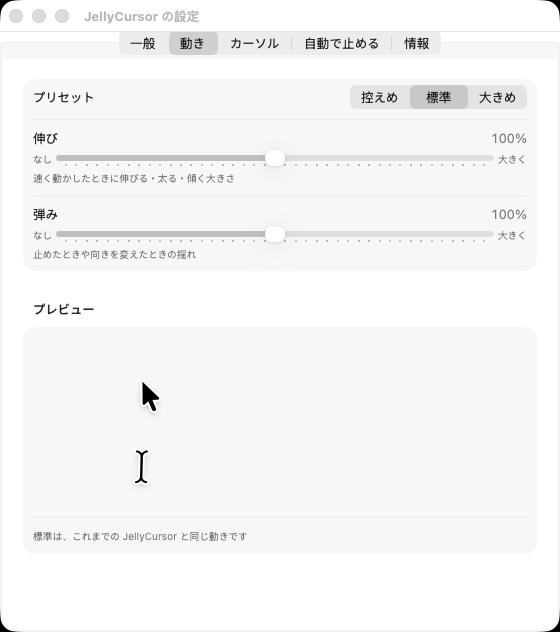
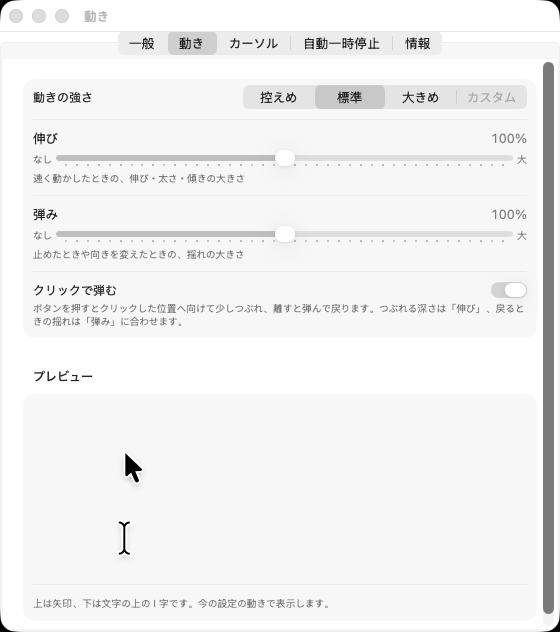
文書を今の動きと言葉にそろえる: README・画像・動きの GIF・古いコメント (#15)
* refactor: split into a Swift package with a platform-free core

Split the app into three modules without changing how the cursor moves:
- JellyCursorCore: the motion math (arrow, I-beam, hand), typing and
  other-app-hide watchers, cursor shape matching, pointer color parsing
  and window geometry. No AppKit, so it also builds and tests on Linux.
- JellyCursorKit: windows, the real cursor, the menu and the app delegate.
- JellyCursor: launch only.

Figures now take MotionParameters. The standard parameters are exactly
the current Tuning values, and a golden test replays a fixed mouse path
and compares every 4th frame with values recorded from main (efbc96a).

Build with `make app`, test with `make test` (Swift 6 language mode).
CI builds the core on Linux and the whole app on macOS.

Claude-Session: https://claude.ai/code/session_019ThAoARLg3Lo86tXZ4sGVb

* fixup! refactor: split into a Swift package with a platform-free core

* feat: add settings, a richer menu, a global shortcut and automatic pauses

Menu bar (NSStatusItem, rebuilt each time it opens):
- Enabled toggle (shows the shortcut), the reason when paused,
  "disable in <front app>", motion presets, restore the real cursor,
  Settings… (⌘,) and warning lines. The icon follows the state:
  running, off, paused (dimmed) or cannot hide the real cursor.

Settings window (SwiftUI inside an NSWindow; the app switches to a
regular app while it is open so it comes to the front on macOS 26):
[…]

diff --git a/docs/motion-gif/main.swift b/docs/motion-gif/main.swift
@@ -33,7 +33,13 @@ func run(_ figure: CursorFigure, start: CGPoint, segments: [Segment]) -> (frames
 func hold(_ p: CGPoint, _ seconds: Double) -> Segment { Segment(duration: seconds) { _ in p } }
 func press(_ p: CGPoint, _ seconds: Double) -> Segment { Segment(duration: seconds, pressed: true) { _ in p } }
 
+// 左右に振る（左端から出て、往復して左端に戻る）
+func shake(from p: CGPoint, width: Double, cycles: Double, seconds: Double) -> Segment {
+    Segment(duration: seconds) { u in CGPoint(x: p.x + width * (1 - cos(2 * .pi * cycles * u)) / 2, y: p.y) }
+}
+
 // 矢印: 右上へ弧を描いて速く動かし、止める（揺れて戻る）→ クリック → 左下へ戻して止める → クリック
+// → 左右に振る（端で縮んで向きを変え、真ん中で伸びる）→ 止める
 let a0 = CGPoint(x: 70, y: 70), a1 = CGPoint(x: 290, y: 190)
 let arrowSegments = [
     hold(a0, 0.5),
@@ -41,8 +47,9 @@ let arrowSegments = [
     hold(a1, 0.55), press(a1, 0.15), hold(a1, 0.4),
     Segment(duration: 0.55) { u in let e = smooth(u); return CGPoint(x: a1.x + (a0.x - a1.x) * e, y: a1.y + (a0.y - a1.y) * e - 45 * sin(.pi * u)) },
     hold(a0, 0.6), press(a0, 0.15), hold(a0, 0.55),
+    shake(from: a0, width: 220, cycles: 2, seconds: 0.9), hold(a0, 0.7),
 ]
-// I 字: 横に速く（太る）→ 止める（弾む）→ 斜めに（傾く）→ 縦に（伸びる）→ 止める → クリック
+// I 字: 横に速く（太る）→ 止める（弾む）→ 斜めに（傾く）→ 縦に（伸びる）→ 止める → クリック → 左右に振る → 止める
 let b0 = CGPoint(x: 70, y: 130), b1 = CGPoint(x: 290, y: 130), b2 = CGPoint(x: 180, y: 50), b3 = CGPoint(x: 180, y: 200)
 let beamSegments = [
     hold(b0, 0.5),
@@ -53,6 +60,7 @@ let beamSegments = [
     Segment(duration: 0.35) { u in let e = smooth(u); return CGPoint(x: b2.x, y: b2.y + (b3.y - b2.y) * e) },
     Segment(duration: 0.55) { u in let e = smooth(u); return CGPoint(x: b3.x + (b0.x - b3.x) * e, y: b3.y + (b0.y - b3.y) * e) },
     hold(b0, 0.15), press(b0, 0.15), hold(b0, 0.4),
+    shake(from: b0, width: 220, cycles: 2, seconds: 0.9), hold(b0, 0.7),
 ]
 let scale: CGFloat = 2
 let arrow = run(Jelly(scale: scale), start: a0, segments: arrowSegments)

diff --git a/Sources/JellyCursorKit/SettingsView.swift b/Sources/JellyCursorKit/SettingsView.swift
@@ -138,7 +138,7 @@ private struct GeneralPane: View {
     }
 }
 
-// 動き: プリセット・強さ・プレビュー
+// 動き: 動きの強さ（プリセット）・伸びと弾み・プレビュー
 private struct MotionPane: View {
     @Bindable var settings: AppSettings
     // 選べないカスタムが押されたときに、切り替えを作り直して今の選択に戻す
@@ -260,7 +260,7 @@ private struct CursorKindToggle: View {
     }
 }
 
-// 自動で止める: 視差効果・低電力・全画面・除外するアプリ
+// 自動一時停止: 視差効果・低電力・フルスクリーン・除外するアプリ
 private struct AutoPausePane: View {
     @Bindable var settings: AppSettings
     // 起動中のアプリ。アプリが起動・終了したら読み直す

diff --git a/Sources/JellyCursorCore/Jelly.swift b/Sources/JellyCursorCore/Jelly.swift
@@ -218,7 +218,7 @@ package final class Jelly: CursorFigure {
                     p.aimed = false
                 }
                 // 回す先が決まったフレームでは、決まったあとの時間だけ回す。まるごと回すと、画面の書き換えが遅いほど
-                // 早く回り始め、伸びを残した長い胴体では、書き換えの速さで尾の位置が大きく変わる
+                // 早く回り始め、長い胴体では、書き換えの速さで尾の位置が大きく変わる
                 if !p.aimed {
                     let gained = distance - hypot(end.x - previous.x, end.y - previous.y)
                     if gained > 0 { turning = dt * min(max((distance - Tuning.Fold.minTurnTravel) / gained, 0), 1) }

diff --git a/Sources/JellyCursorKit/SystemMonitor.swift b/Sources/JellyCursorKit/SystemMonitor.swift
@@ -1,8 +1,8 @@
 import AppKit
 import JellyCursorCore
 
-// 自動で止めるために、Mac の状態を見張る。ロック・ユーザーの切り替え・スクリーンセーバー・スリープ・
-// 「視差効果を減らす」・低電力モード・前面のアプリ・全画面。
+// 自動で一時停止するために、Mac の状態を見張る。ロック・ユーザの切り替え・スクリーンセーバ・スリープ・
+// 「視差効果を減らす」・低電力モード・前面のアプリ・フルスクリーン。
 // スリープからの復帰や画面構成の変化のあとは、描く窓などを作り直すよう onNeedsRebuild で知らせる
 @MainActor
 final class SystemMonitor {

diff --git a/Sources/JellyCursorCore/Activity.swift b/Sources/JellyCursorCore/Activity.swift
@@ -10,7 +10,7 @@ package struct AppIdentity: Equatable, Sendable {
     }
 }
 
-// 自動で止めるかを決めるための、Mac の今の状態
+// 自動で一時停止するかを決めるための、Mac の今の状態
 package struct SystemConditions: Equatable, Sendable {
     // ユーザーの切り替えで、この画面が裏に回っていない
     package var sessionActive = true

diff --git a/README.md b/README.md
@@ -8,12 +8,12 @@
 
 <sub>左が矢印、右が文字の上の I 字。灰色の輪は、ボタンを押している間</sub>
 
-- **矢印**: 通った道に沿って伸び、進む向きを向く。止めると振り子のように揺れて、左上向きに戻る
-- **文字の上の I 字**: 横に振ると太く、縦に振ると伸び、斜めに振るとその向きに傾く
+- **矢印**: 通った道に沿って伸び、進む向きを指す。左右に振ると、端で縮んですばやく向きを変える。止めると振り子のように揺れて、左上向きに戻る
+- **文字の上の I 字**: 横に動かすと太く、縦に動かすと長くなり、斜めに動かすとその向きに傾く
 - **リンクの上の指**: 進む向きを指差して伸び、止めると上向きに戻る
 - **クリック**: 押すと少しつぶれ、離すと弾んで戻る（クリックする位置はずれない）
 
-ほかのカーソル（リサイズなど）やシステムのダイアログの上、動画や文字入力でカーソルが隠れている間は、macOS の本物のカーソルのままです。
+ほかのカーソル（ウインドウの大きさを変えるときの矢印など）やシステムのダイアログの上、動画や文字入力でカーソルが隠れている間は、macOS のカーソルのままです。
 
 ## 入れ方
 
@@ -29,33 +29,33 @@ make install
 
 ## 使い方
 
-メニューバーのアイコンから、オン・オフ（「有効」）と動きの強さ（控えめ・標準・大きめ）を選べます。オフにすると、本物のカーソルが見えるところまで確かに戻します。
+メニューバーのアイコンから、オン・オフ（「有効」）と動きの強さ（控えめ・標準・大きめ）を選べます。オフにすると、macOS のカーソルが見えるところまで確かに戻します。
 
 <img src="docs/images/menu.png" width="216" alt="メニュー">
 
 設定画面（メニューの「設定…」か ⌘,）では、次のことを決められます。
 
 - **一般**: ログイン時に起動、メニューバーのアイコンを出すか、オン・オフのショートカット
-- **動き**: 「伸び」と「弾み」の強さ、クリックで弾むか（プレビューで確かめられます）
+- **動き**: 動きの強さ（「伸び」と「弾み」）、クリックで弾むか（プレビューで確かめられます）
 - **カーソル**: 矢印・I 字・指を、種類ごとにオン・オフ
-- **自動で止める**: 「視差効果を減らす」がオンのとき、低電力モードのとき、全画面のアプリを使っているとき、指定したアプリを使っているとき
+- **自動一時停止**: 「視差効果を減らす」がオンのとき、低電力モードのとき、フルスクリーンのアプリを使っているとき（どれも最初はオフ）と、指定したアプリを使っているときに一時停止
+- **情報**: バージョンと今の状態、困ったときの案内、診断情報のコピー
 
 <img src="docs/images/settings-motion.png" width="420" alt="設定画面の動きのタブ">
 
-- 画面のロック中やスリープ中などは、いつも本物のカーソルに戻ります
-- 「視差効果を減らす」がオンの Mac では、止まった状態で始まります。動かすには「自動で止める」でこの項目をオフにしてください
-- メニューバーのアイコンを隠したときは、JellyCursor をもう一度開くと設定画面が開きます
+- 画面のロック中やスリープ中などは、いつも一時停止して、macOS のカーソルに戻します
+- メニューバーのアイコンを隠したときは、JellyCursor をもう一度開くと設定画面が表示されます
 
 ## 困ったとき
 
-- **カーソルが見えなくなった**: ショートカットかメニューの「有効」でオフにします。ターミナルで `killall JellyCursor` を実行すると、本物のカーソルに戻してから終わります
-- **起動するとおかしくなる**: Shift キーを押しながら開くと、何も隠さずに止めた状態（セーフモード）で起動します
+- **カーソルが見えなくなった**: ショートカットかメニューの「有効」でオフにします。ターミナルで `killall JellyCursor` を実行すると、macOS のカーソルに戻してから終了します
+- **起動するとおかしくなる**: Shift キーを押しながら開くと、オフの状態（セーフモード）で起動します。メニューか設定で有効にすると動きます
 - **動きがおかしい**: 設定の「情報」タブの「診断情報をコピー」で、状況をまとめてコピーできます。それを添えて知らせてください
 - **設定を消したい**: JellyCursor を終了してから、ターミナルで `defaults delete local.jellycursor` を実行します
 
 ## 仕組み
 
-画面の上に透明な窓を重ね、本物のカーソルを隠して、変形させた形を描いています。前面にいないアプリからカーソルを隠すには非公開 API（`SetsCursorInBackground`）が要ります。それが使えない macOS では、矢印だけを本物に重ねて描き、メニューで知らせます。
+画面の上に透明な窓を重ね、macOS のカーソルを隠して、変形させた形を描いています。前面にいないアプリからカーソルを隠すには非公開 API（`SetsCursorInBackground`）が要ります。それが使えない macOS では、矢印だけを macOS のカーソルに重ねて描き、メニューで知らせます。
 
 ## 開発
 
